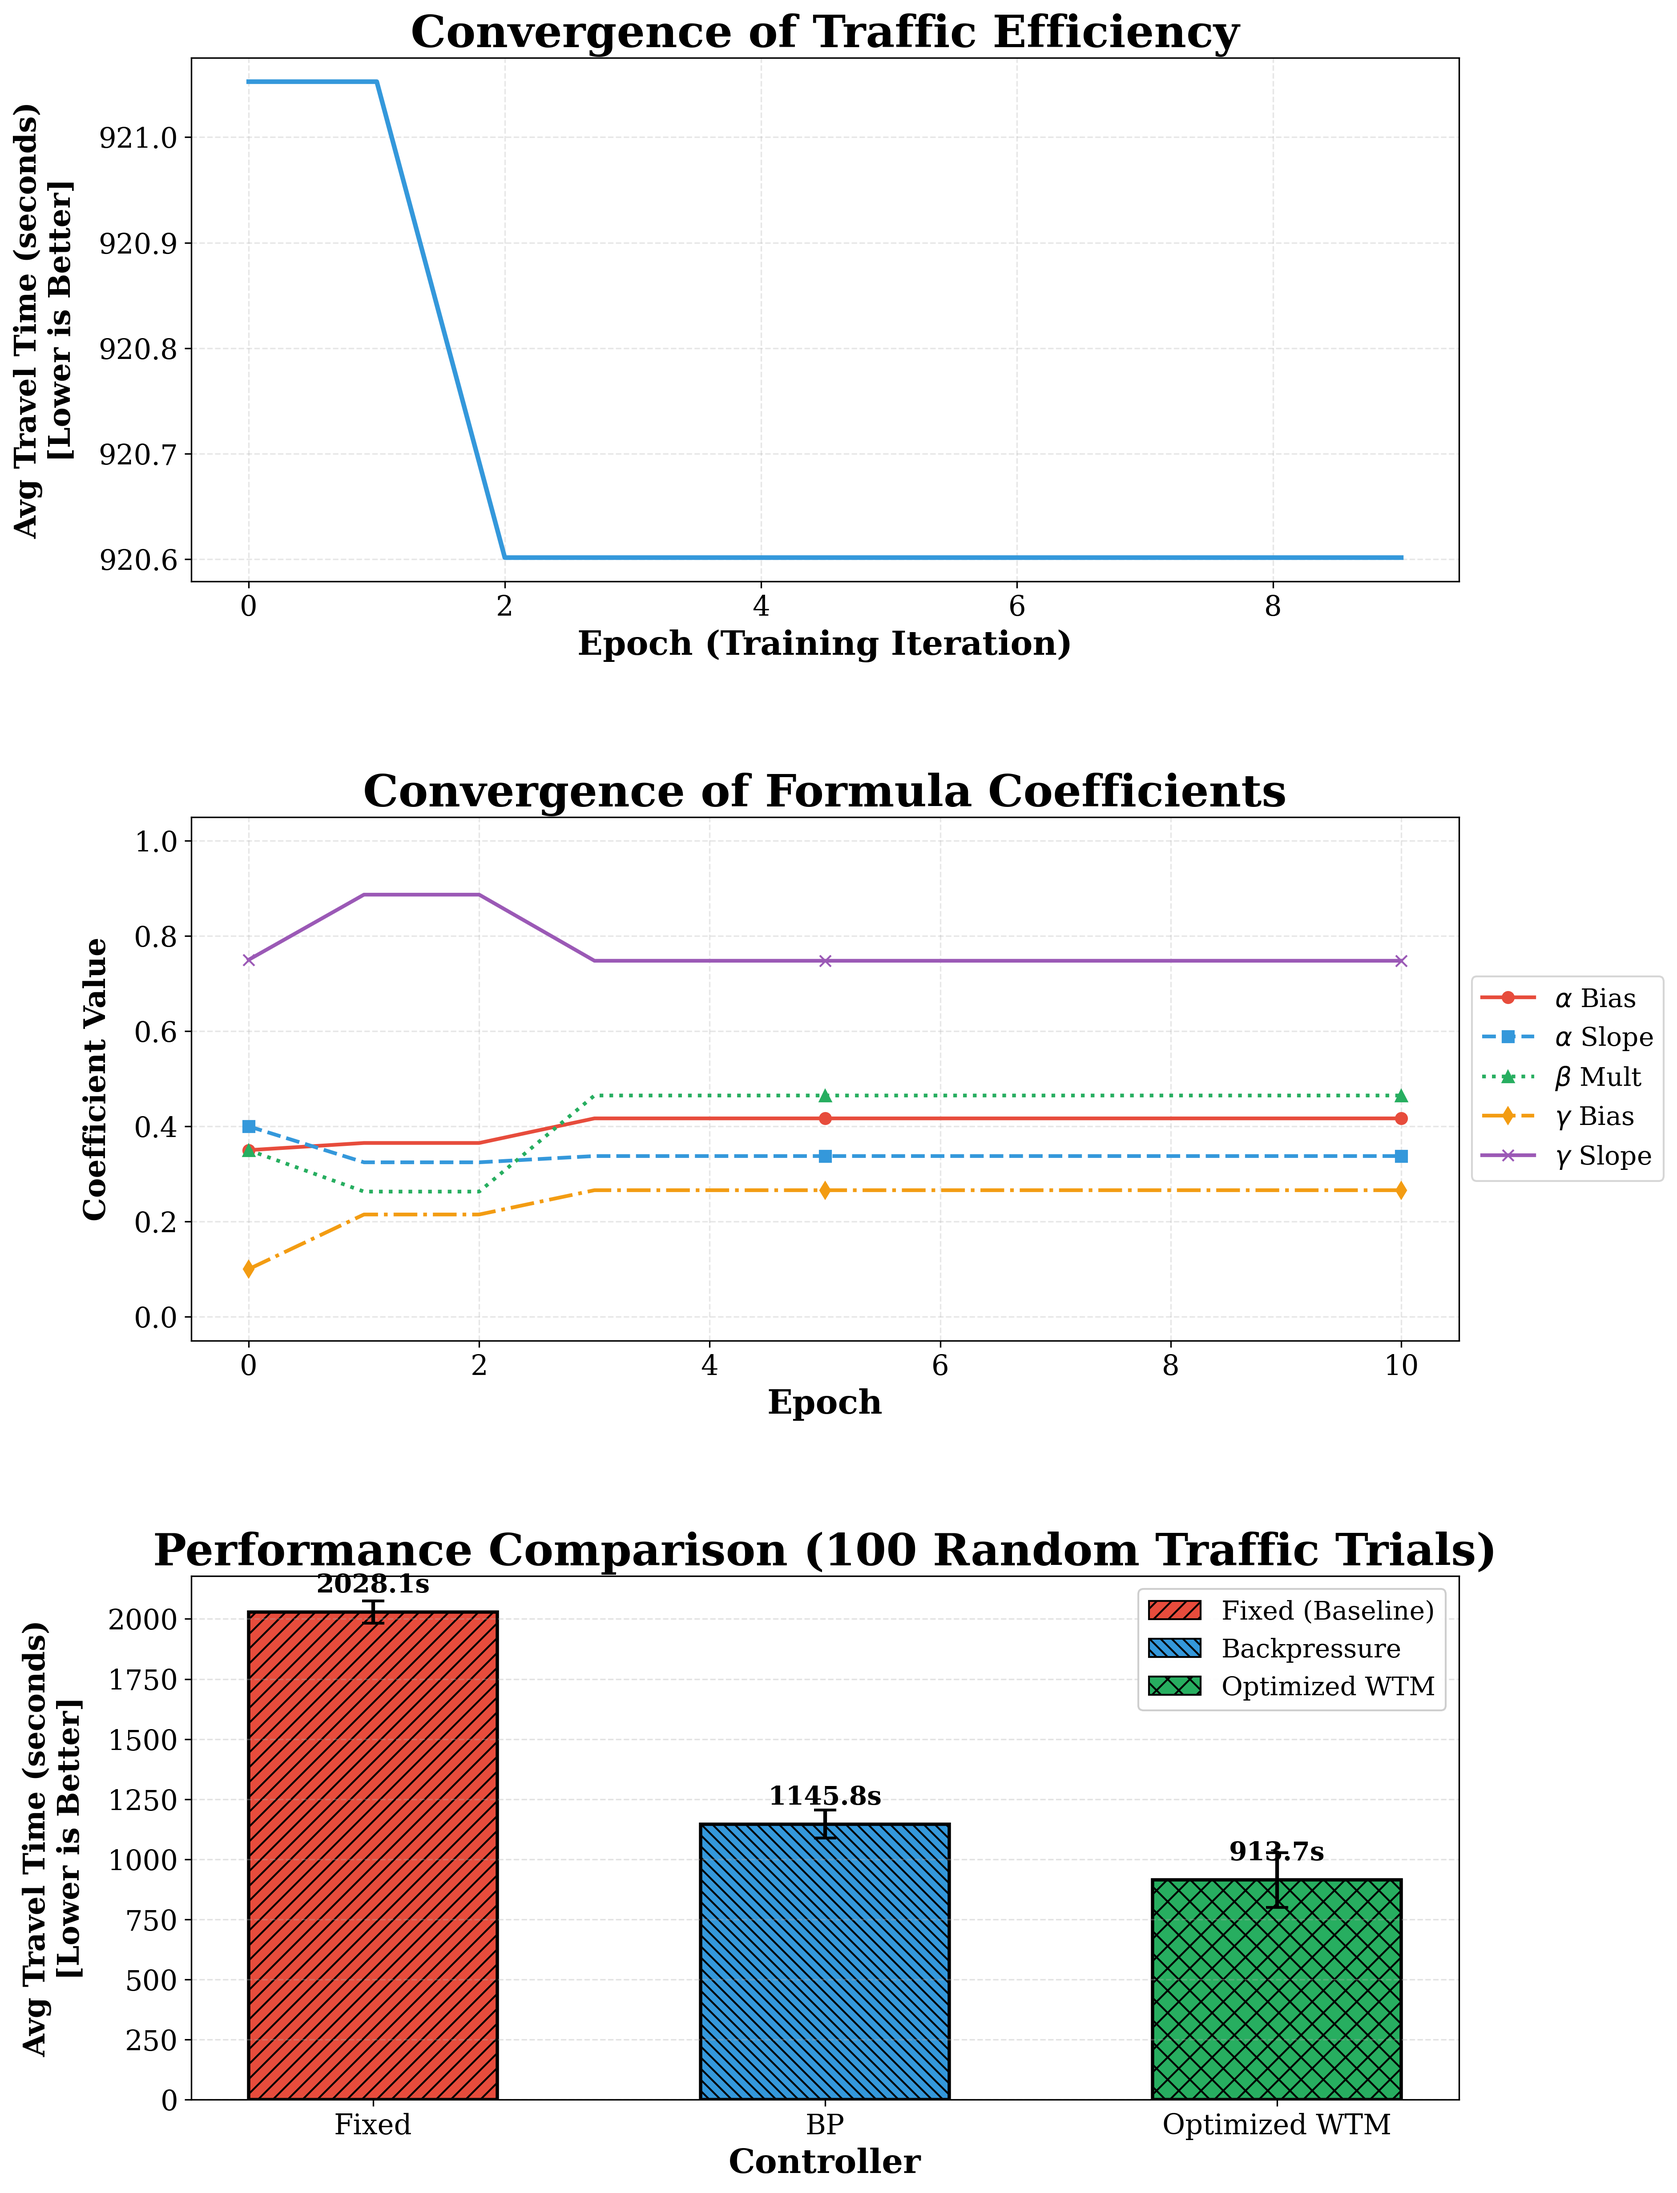
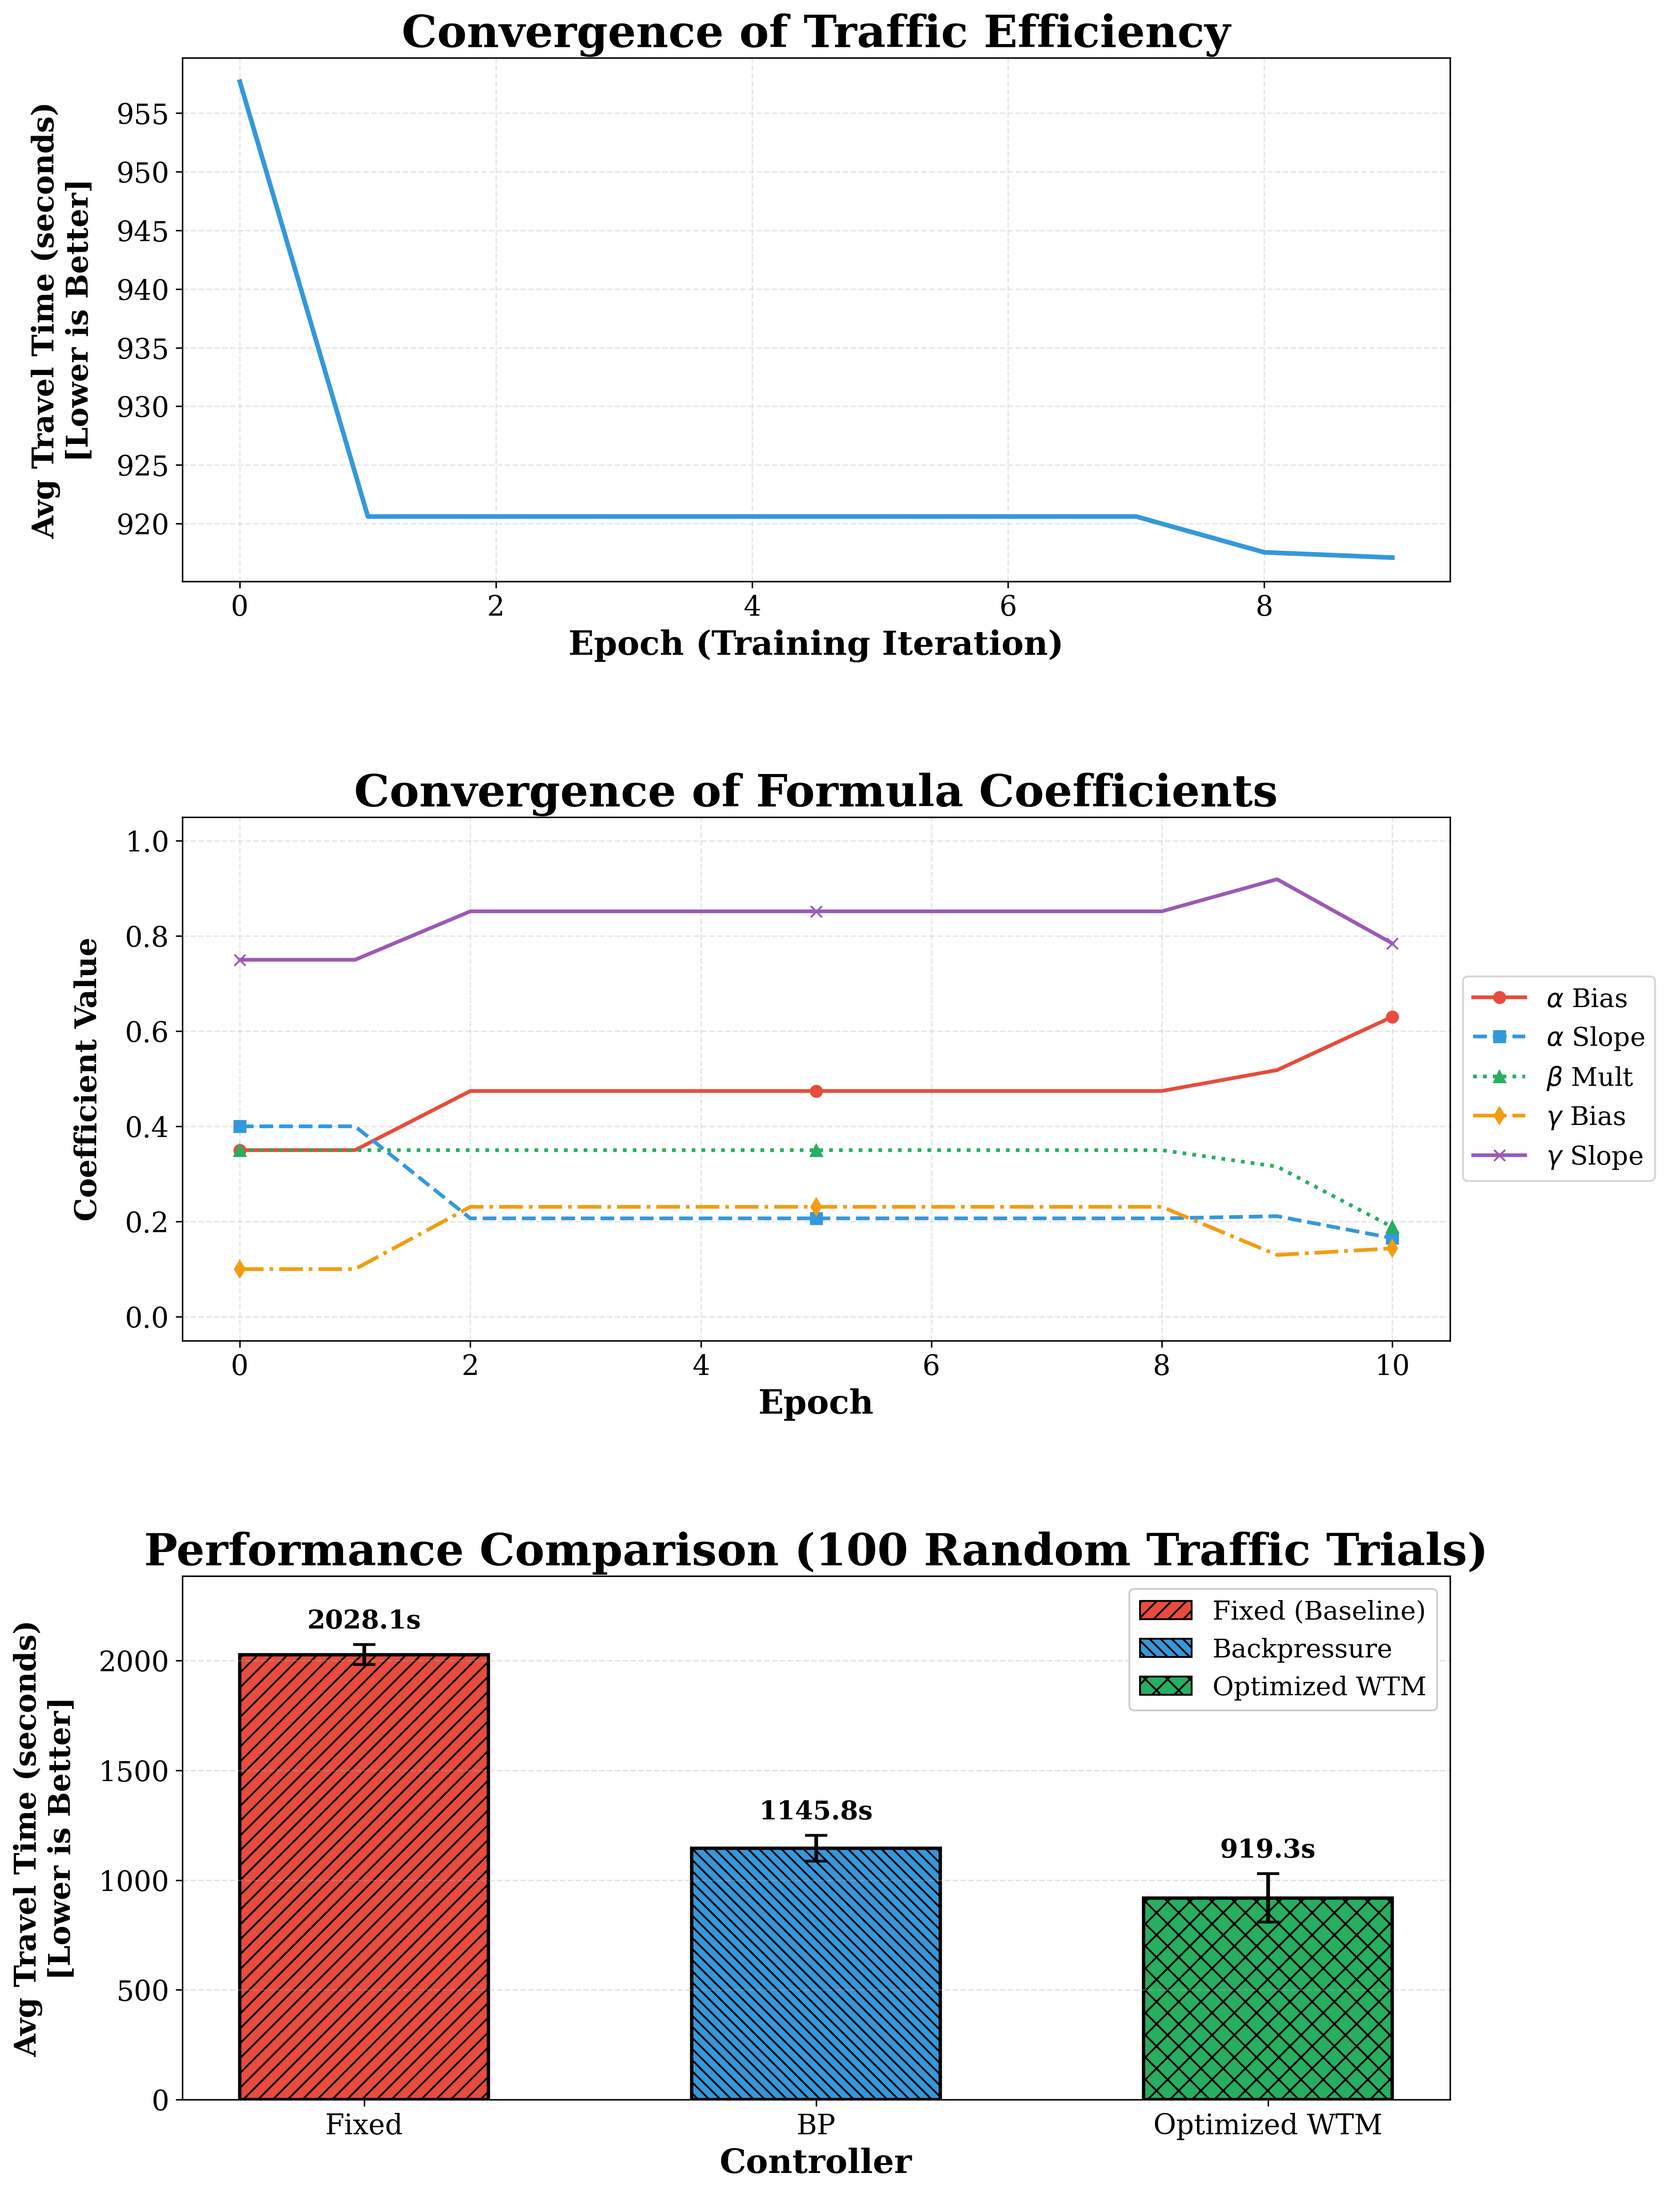
Enhance convergence plot annotations for clarity and precision

diff --git a/ml_topology_optimizer.py b/ml_topology_optimizer.py
@@ -203,13 +203,16 @@ def generate_paper_convergence_plot():
     ax3.set_xlabel("Controller", fontsize=18)
     ax3.grid(axis='y', linestyle='--', alpha=0.35)
     
-    # Annotate bars with values
-    for bar in bars:
+    # Keep value labels inside the axes and above error bars
+    y_max = max(m + s for m, s in zip(means, stds)) if means else 1.0
+    ax3.set_ylim(0, y_max * 1.15)
+    for bar, mean, std in zip(bars, means, stds):
         height = bar.get_height()
-        ax3.text(
-            bar.get_x() + bar.get_width() / 2,
-            height + max(means) * 0.03,  # small offset based on scale
+        ax3.annotate(
             f"{height:.1f}s",
+            xy=(bar.get_x() + bar.get_width() / 2, mean + std),
+            xytext=(0, 6),
+            textcoords="offset points",
             ha="center",
             va="bottom",
             fontweight="bold",
